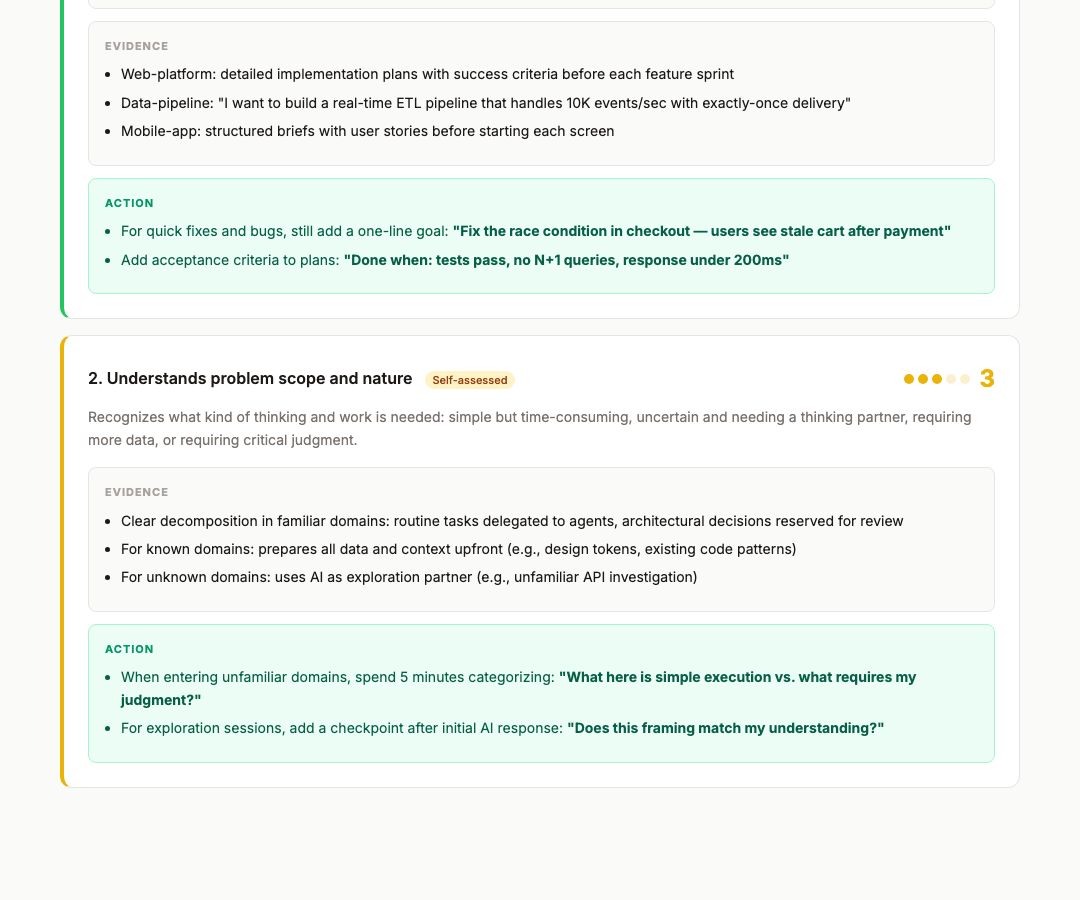
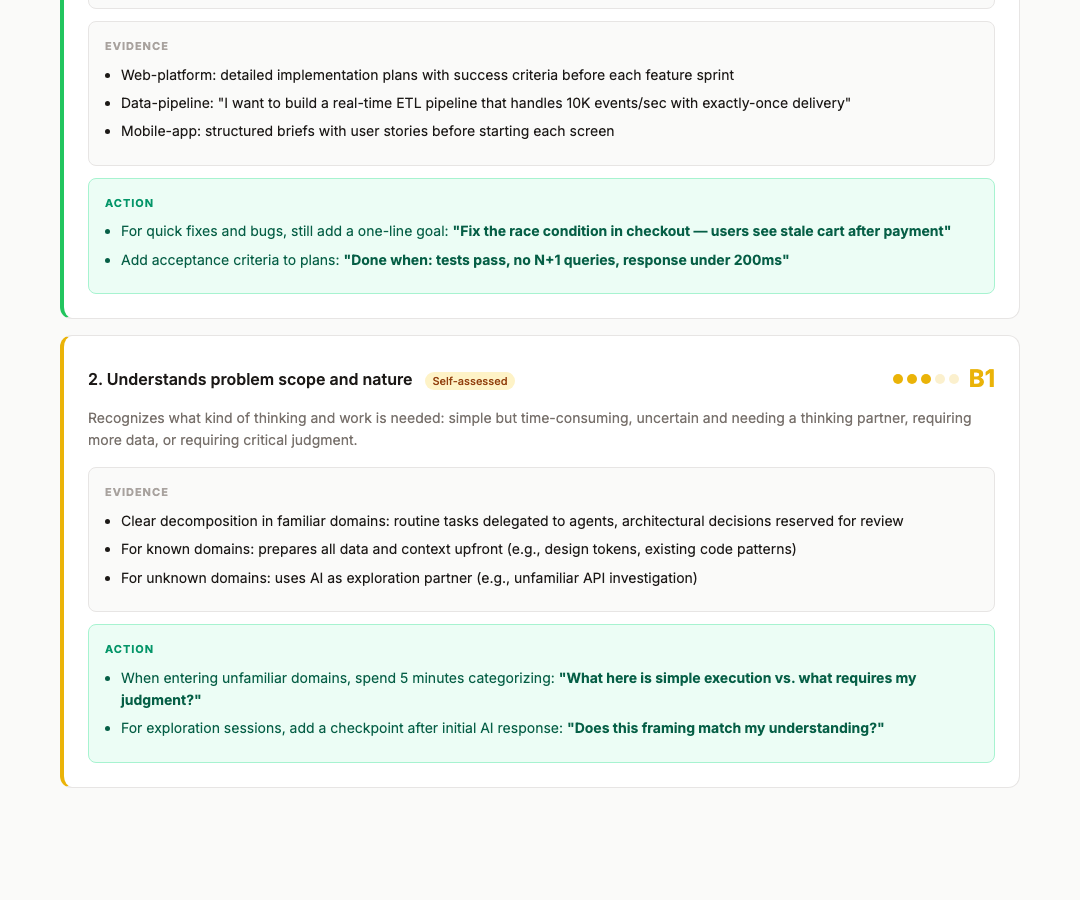
Add CEFR-aligned grading system
Map the 1-5 score scale to CEFR language proficiency levels
(A1 Breakthrough through C2 Mastery). Report now shows CEFR
codes on the overall score, competency cards, and per-behavior
cards. Includes a visual CEFR scale bar with "YOU" marker.

diff --git a/src/ai_fluency/report.py b/src/ai_fluency/report.py
@@ -105,12 +105,12 @@ def generate_report(
     lines.append("")
     lines.append("### Scoring Guide")
     lines.append("")
-    lines.append("For each behavior, assess on a 1-5 scale:")
-    lines.append("- **1 - Novice**: No evidence of this behavior")
-    lines.append("- **2 - Emerging**: Occasional or inconsistent evidence")
-    lines.append("- **3 - Developing**: Regular evidence but room for improvement")
-    lines.append("- **4 - Proficient**: Consistent, effective demonstration")
-    lines.append("- **5 - Expert**: Sophisticated, nuanced mastery")
+    lines.append("For each behavior, assess on a 1-5 scale aligned with CEFR language levels:")
+    lines.append("- **1 - A1 Breakthrough**: No evidence of this behavior")
+    lines.append("- **2 - A2 Elementary**: Occasional or inconsistent evidence")
+    lines.append("- **3 - B1 Intermediate**: Regular evidence but room for improvement")
+    lines.append("- **4 - B2 Upper Intermediate**: Consistent, effective demonstration")
+    lines.append("- **5 - C1 Advanced**: Sophisticated, nuanced mastery")
     lines.append("")
 
     # --- Evidence by behavior ---

diff --git a/README.md b/README.md
@@ -1,6 +1,6 @@
 # AI Fluency Assessment
 
-Scan your AI activity and get a detailed assessment of your AI fluency based on **Anthropic's 4D Framework** (Dakan, Feller & Anthropic, 2025).
+Scan your AI activity and get a detailed assessment of your AI fluency based on **Anthropic's 4D Framework** (Dakan, Feller & Anthropic, 2025). Graded on a **CEFR-aligned scale** (A1→C2) — the same system used for human language certification worldwide.
 
 Runs locally via Claude Code — no API calls, no data leaves your machine.
 
